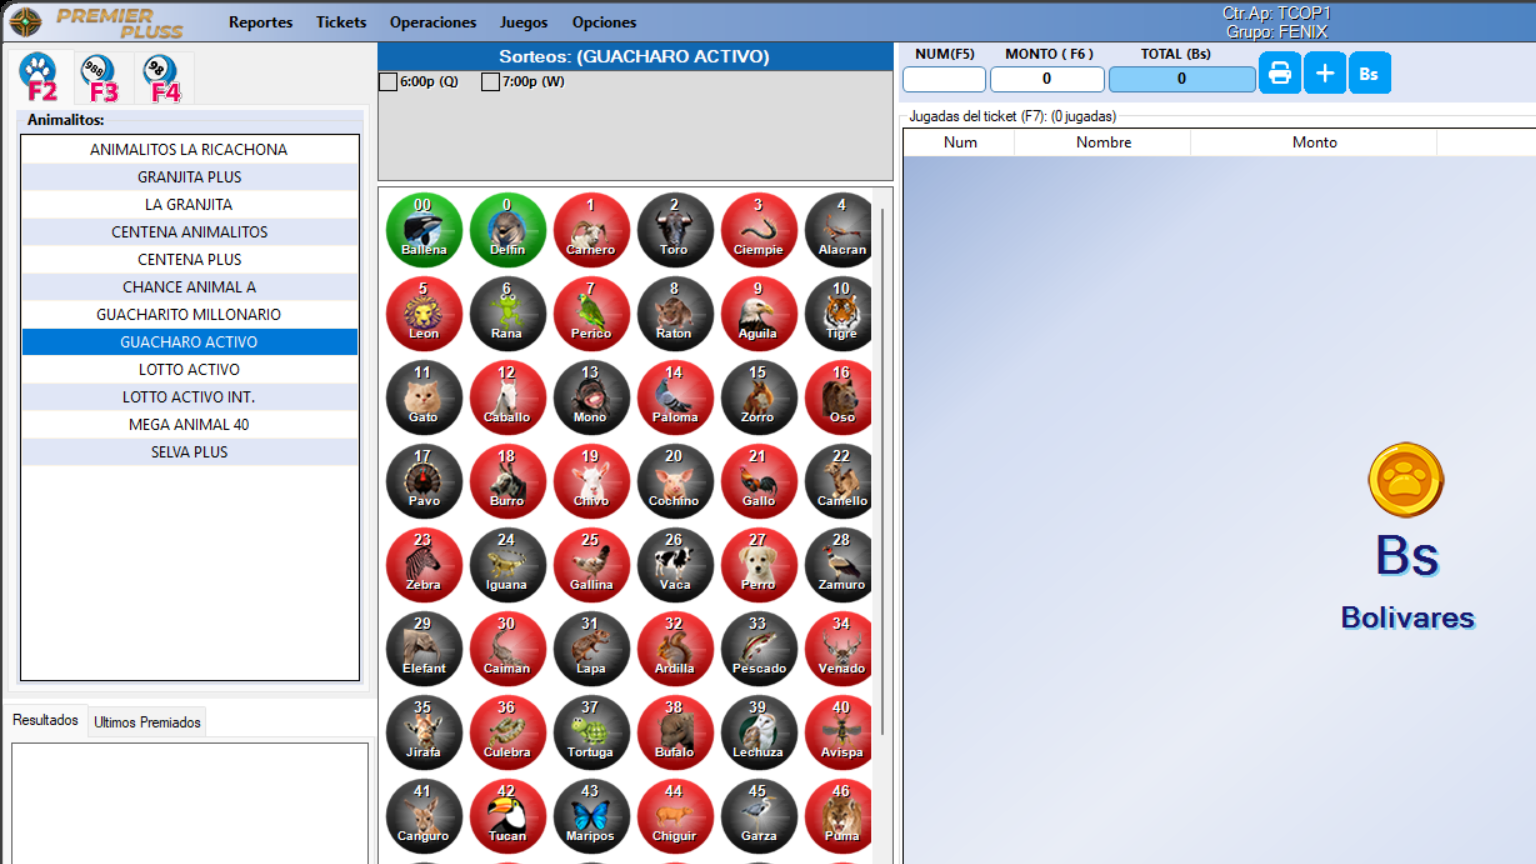
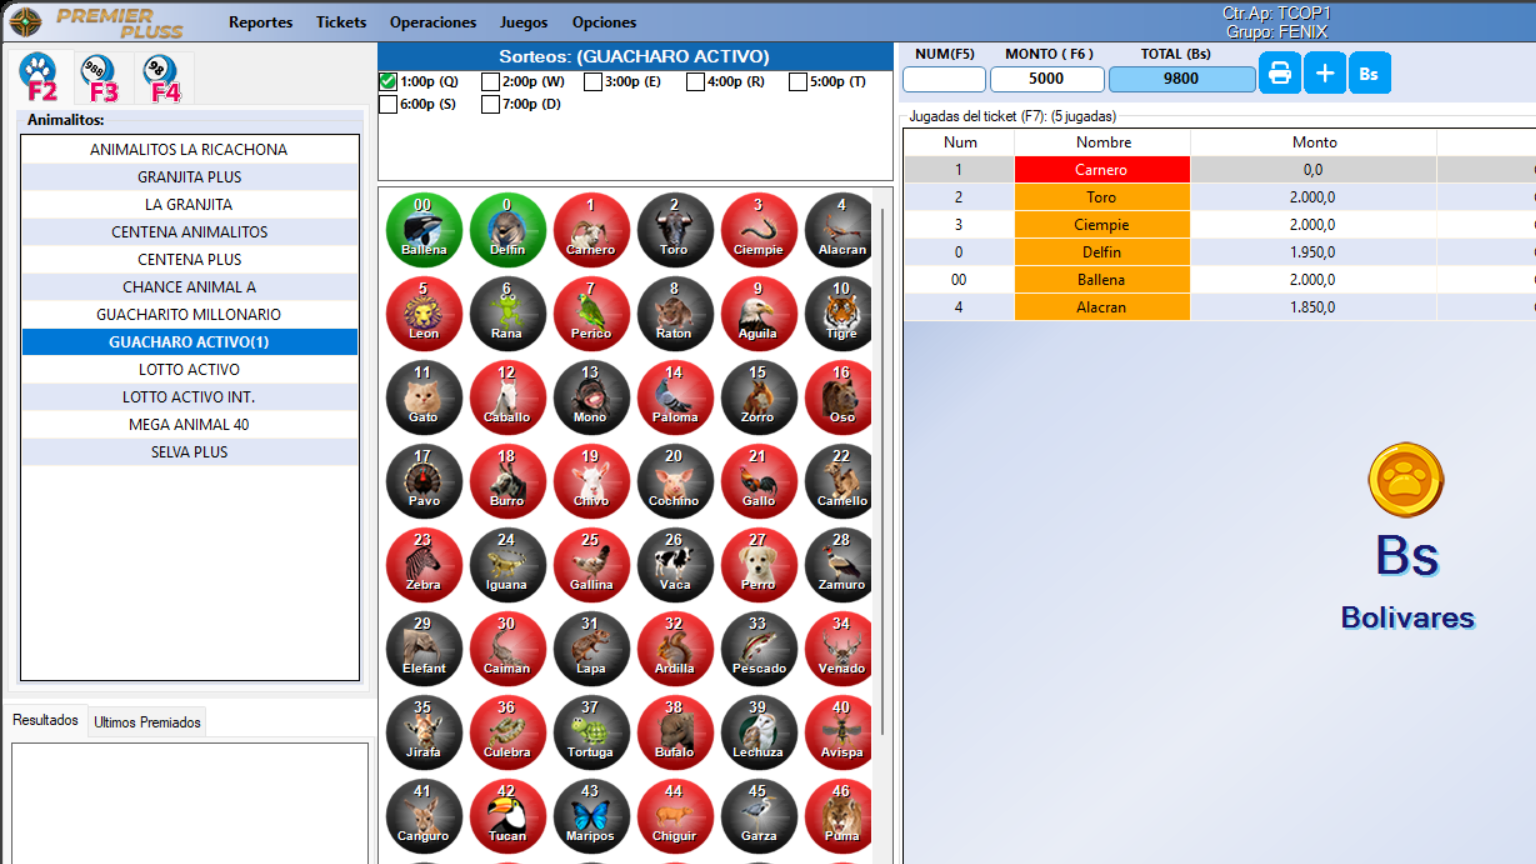
fix: resolver auto-purga y tope estricto de bloqueos en Triple 7

diff --git a/triple7_robot.js b/triple7_robot.js
@@ -316,9 +316,9 @@ function findOptionForNumber(targetDraw, numStr, animalDict) {
   const isGranjaMillonaria = normalizarTexto(targetDraw.loteria).includes('granja millonaria');
 
   if (isGranjaMillonaria) {
-    matchedOpt = targetDraw.options.find(o => o.value === numInt.toString() || o.nombre === numInt.toString());
+    matchedOpt = targetDraw.options.find(o => o.value === numInt.toString());
   } else {
-    const expectedVal = numRaw === '00' ? '1' : numRaw === '0' ? '2' : (numInt + 2).toString();
+    const expectedVal = (numRaw === '00') ? '1' : (numRaw === '0') ? '2' : (numInt + 2).toString();
     matchedOpt = targetDraw.options.find(o => o.value === expectedVal);
   }
 
@@ -329,10 +329,8 @@ function findOptionForNumber(targetDraw, numStr, animalDict) {
     });
   }
 
-  if (!matchedOpt) {
-    matchedOpt = targetDraw.options.find(o => o.nombre === numRaw || o.nombre === numInt.toString() || o.text === numRaw);
-  }
-
+  // NUNCA hacer fallback a o.nombre === numInt.toString() porque en Triple 7
+  // data-nombre es idani (ej: data-nombre="2" es Delfin/0, NO Toro/2)!
   return matchedOpt;
 }
 
@@ -352,6 +350,23 @@ async function _bloquearNumerosHttp(config, loteriaNombre, sorteoHora, numerosPa
   const horaBuscada = normalizarHoraSorteo(sorteoHora);
   const loteriaBuscada = normalizarTexto(loteriaNombre);
 
+  // 1. Obtener límite máximo configurado para esta lotería
+  const lot = (config && config.loterias || []).find(l => {
+    const nl = normalizarTexto(l.nombre);
+    return nl.includes(loteriaBuscada) || loteriaBuscada.includes(nl);
+  });
+  let maxBloqueos = 6;
+  if (lot && lot.maximoBloqueosPorSorteo !== undefined) {
+    const val = parseInt(lot.maximoBloqueosPorSorteo, 10);
+    if (!isNaN(val)) maxBloqueos = Math.min(Math.max(val, 0), 10);
+  }
+
+  // Si vienen más números que el tope máximo permitido, cortar estrictamente
+  if (numerosParaBloquear.length > maxBloqueos) {
+    console.log(`[TRIPLE 7 LIMITE] ${loteriaNombre} (${sorteoHora}): Recibidos ${numerosParaBloquear.length} números, recortando al tope máximo configurado de ${maxBloqueos}: [${numerosParaBloquear.slice(0, maxBloqueos).join(', ')}]`);
+    numerosParaBloquear = numerosParaBloquear.slice(0, maxBloqueos);
+  }
+
   let cookie = await httpLoginTriple7(config);
   let listRes = await httpRequest(targetUrl, { headers: { 'Cookie': cookie } });
   if (listRes.status === 302 || listRes.body.includes('action="/index.php"')) {
@@ -359,11 +374,11 @@ async function _bloquearNumerosHttp(config, loteriaNombre, sorteoHora, numerosPa
     listRes = await httpRequest(targetUrl, { headers: { 'Cookie': cookie } });
   }
 
-  const blockedMap = await fetchTriple7BlockedMap(config, cookie);
-  const draws = parseDrawsFromHtml(listRes.body, blockedMap);
+  let blockedMap = await fetchTriple7BlockedMap(config, cookie);
+  let draws = parseDrawsFromHtml(listRes.body, blockedMap);
 
   // Localizar la fila correspondiente
-  const targetDraw = draws.find(d => {
+  let targetDraw = draws.find(d => {
     const rowLot = normalizarTexto(d.loteria);
     const rowTime = normalizarHoraSorteo(d.sorteo);
     const matchLot = rowLot.includes(loteriaBuscada) || loteriaBuscada.includes(rowLot);
@@ -385,51 +400,96 @@ async function _bloquearNumerosHttp(config, loteriaNombre, sorteoHora, numerosPa
     animalDict = {};
   }
 
-  // 1. Mapear cada número deseado a su opción correspondiente en Triple 7
-  const listaObjetivos = [];
-  const idsDeseados = new Set();
-  const fallidos = [];
-
+  // 2. Calcular los ID de animal (idani) deseados según la regla oficial de Triple 7
+  // (00 -> 1, 0 -> 2, N -> N + 2)
+  const idaniDeseados = new Set();
+  const numerosMap = [];
   for (const numStr of numerosParaBloquear) {
-    const opt = findOptionForNumber(targetDraw, numStr, animalDict);
-    if (opt && opt.url) {
-      listaObjetivos.push({ numStr: numStr.toString().trim(), opt });
-      idsDeseados.add(opt.value);
-    } else {
-      fallidos.push(numStr.toString().trim());
-    }
+    const raw = numStr.toString().trim();
+    const numInt = parseInt(raw, 10);
+    const idani = (raw === '00') ? '1' : (raw === '0') ? '2' : (numInt + 2).toString();
+    idaniDeseados.add(idani);
+    numerosMap.push({ raw, numInt, idani });
   }
 
-  // 2. Inyectar los bloqueos deseados
+  // 3. Inspeccionar el estado real actual en Triple 7 para este sorteo
+  let idsActualmenteBloqueados = (targetDraw.idsol && blockedMap.get(targetDraw.idsol)) || [];
+
+  // PURGA AUTOMÁTICA OBLIGATORIA:
+  // Si en Triple 7 ya hay animales bloqueados que NO pertenecen a los números deseados,
+  // O si la cantidad actualmente bloqueada en Triple 7 excede el tope configurado (maxBloqueos),
+  // se debe reincorporar TODO el sorteo de inmediato para garantizar que en Triple 7 queden
+  // ÚNICAMENTE los números exactos calculados, sin acumular residuos de alarmas pasadas ni superar el tope.
+  const haySobrantesOExtranjeros = idsActualmenteBloqueados.some(id => !idaniDeseados.has(id));
+  const excedeTope = idsActualmenteBloqueados.length > maxBloqueos;
+
+  if (targetDraw.idsol && (haySobrantesOExtranjeros || excedeTope)) {
+    console.log(`[TRIPLE 7 AUTO-PURGA] Sorteo ${targetDraw.loteria} (${targetDraw.sorteo}) contiene ${idsActualmenteBloqueados.length} números en Triple 7 (hay sobrantes: ${haySobrantesOExtranjeros}, excede tope ${maxBloqueos}: ${excedeTope}). Reincorporando para dejar lista limpia y exacta...`);
+    
+    await _reincorporarAnimalitosHttp(config, loteriaNombre, sorteoHora);
+
+    // Re-consultar la página oficial de Triple 7 para refrescar las opciones y URLs limpias
+    listRes = await httpRequest(targetUrl, { headers: { 'Cookie': cookie } });
+    if (listRes.status === 302 || listRes.body.includes('action="/index.php"')) {
+      cookie = await httpLoginTriple7(config, true);
+      listRes = await httpRequest(targetUrl, { headers: { 'Cookie': cookie } });
+    }
+    blockedMap = await fetchTriple7BlockedMap(config, cookie);
+    draws = parseDrawsFromHtml(listRes.body, blockedMap);
+    targetDraw = draws.find(d => {
+      const rowLot = normalizarTexto(d.loteria);
+      const rowTime = normalizarHoraSorteo(d.sorteo);
+      const matchLot = rowLot.includes(loteriaBuscada) || loteriaBuscada.includes(rowLot);
+      const matchTime = rowTime === horaBuscada || rowTime.replace(/^0/, '') === horaBuscada.replace(/^0/, '');
+      return matchLot && matchTime;
+    });
+
+    if (!targetDraw) {
+      return { ok: false, message: `Error recuperando sorteo tras auto-purga en Triple 7.` };
+    }
+    idsActualmenteBloqueados = (targetDraw.idsol && blockedMap.get(targetDraw.idsol)) || [];
+  }
+
+  // 4. Inyectar los bloqueos deseados respetando estrictamente maxBloqueos
   const bloqueadosExitosos = [];
+  const fallidos = [];
   const ajaxHeaders = {
     'Cookie': cookie,
     'X-Requested-With': 'XMLHttpRequest',
     'Referer': 'https://ny7.undo.it/Venta_Animalitos/lista_sor_ag.php',
     'Accept': 'application/json, text/javascript, */*; q=0.01'
   };
+  const today = new Date().toISOString().slice(0, 10);
 
-  const idsActualmenteBloqueados = (targetDraw.idsol && blockedMap.get(targetDraw.idsol)) || [];
+  for (const { raw, numInt, idani } of numerosMap) {
+    if (bloqueadosExitosos.length >= maxBloqueos) {
+      console.log(`[TRIPLE 7 TOPE MÁXIMO] Se alcanzó el tope de ${maxBloqueos} para ${loteriaNombre} (${sorteoHora}). Omitiendo restantes.`);
+      break;
+    }
 
-  for (const { numStr, opt } of listaObjetivos) {
-    if (idsActualmenteBloqueados.includes(opt.value)) {
-      // Ya estaba bloqueado y es legítimo de la lista actual
-      bloqueadosExitosos.push({ numero: numStr, animal: opt.text, yaEstabaBloqueado: true });
+    const animalName = animalDict[raw] || animalDict[raw.padStart(2, '0')] || animalDict[numInt.toString()] || `Animal ${raw}`;
+
+    if (idsActualmenteBloqueados.includes(idani)) {
+      // Ya está efectivamente bloqueado en Triple 7
+      bloqueadosExitosos.push({ numero: raw, animal: animalName, yaEstabaBloqueado: true });
       continue;
     }
 
-    // Ejecutar petición GET AJAX idéntica al navegador para registrar el bloqueo
-    const blockUrl = `https://ny7.undo.it/Venta_Animalitos/${opt.url}`;
+    let opt = findOptionForNumber(targetDraw, raw, animalDict);
+    const blockUrl = (opt && opt.url)
+      ? `https://ny7.undo.it/Venta_Animalitos/${opt.url}`
+      : `https://ny7.undo.it/Venta_Animalitos/lista_sor_ag.php?idsol=${targetDraw.idsol}&idani=${idani}&fecha=${today}`;
+
     try {
       const blockRes = await httpRequest(blockUrl, { headers: ajaxHeaders });
       if (blockRes.status >= 200 && blockRes.status < 400) {
-        bloqueadosExitosos.push({ numero: numStr, animal: opt.text });
-        idsActualmenteBloqueados.push(opt.value);
+        bloqueadosExitosos.push({ numero: raw, animal: (opt && opt.text) || animalName });
+        idsActualmenteBloqueados.push(idani);
       } else {
-        fallidos.push(numStr);
+        fallidos.push(raw);
       }
     } catch (eBlock) {
-      fallidos.push(numStr);
+      fallidos.push(raw);
     }
   }
 
@@ -437,8 +497,9 @@ async function _bloquearNumerosHttp(config, loteriaNombre, sorteoHora, numerosPa
     ok: bloqueadosExitosos.length > 0,
     bloqueadosExitosos,
     fallidos,
+    maxBloqueos,
     message: bloqueadosExitosos.length > 0
-      ? `Bloqueados exitosamente ${bloqueadosExitosos.length} números en ${targetDraw.loteria} (${targetDraw.sorteo}): [${bloqueadosExitosos.map(b => b.numero).join(', ')}]`
+      ? `Bloqueados exitosamente ${bloqueadosExitosos.length}/${maxBloqueos} números en ${targetDraw.loteria} (${targetDraw.sorteo}): [${bloqueadosExitosos.map(b => b.numero).join(', ')}]`
       : `No se pudieron bloquear los números en Triple 7 (fallidos: [${fallidos.join(', ')}]).`
   };
 }

diff --git a/server.js b/server.js
@@ -1824,7 +1824,9 @@ setInterval(async () => {
             const yaBloqueados = existingRec ? (existingRec.rojos || []) : [];
 
             const aleatorios = predictive.getRandomSystemBlockNumbers(lot.id, lot.cantidadAleatoriosABloquear, yaBloqueados);
-            const numerosParaBloquear = aleatorios.map(a => a.numero);
+            const maxBloqueosConfig = parseInt(lot.maximoBloqueosPorSorteo, 10) || 6;
+            const fijosPrevios = existingRec ? (existingRec.numFijos || []) : predictive.getFixedBlockNumbers(cfg, lot.id).map(f => f.numero);
+            const numerosParaBloquear = Array.from(new Set([...fijosPrevios, ...aleatorios.map(a => a.numero)])).slice(0, maxBloqueosConfig);
 
             let t7Status = !cfg.general.triple7.enabled 
               ? 'Desactivado' 
@@ -1832,7 +1834,7 @@ setInterval(async () => {
             let t7Blocked = false;
 
             if (cfg.general.triple7.enabled && numerosParaBloquear.length > 0) {
-              log(`[AUTO-BLOQUEO TRIPLE 7] Enviando ${numerosParaBloquear.length} números aleatorios a Triple 7 para ${lot.nombre} (${hStr})...`, 'log-info');
+              log(`[AUTO-BLOQUEO TRIPLE 7] Enviando ${numerosParaBloquear.length} números (Fijos + Aleatorios, máx ${maxBloqueosConfig}) a Triple 7 para ${lot.nombre} (${hStr})...`, 'log-info');
               try {
                 const t7Res = await t7.bloquearNumeros(cfg, lot.nombre, hStr, numerosParaBloquear);
                 t7Blocked = t7Res.ok;
@@ -1849,8 +1851,9 @@ setInterval(async () => {
               montoSondeo: lot.montoSondeo || 3000,
               totalAnimalesAnalizados: lot.totalAnimales || 38,
               rojos: numerosParaBloquear,
-              numAleatorios: numerosParaBloquear,
+              numAleatorios: aleatorios.map(a => a.numero),
               aleatoriosSistema: aleatorios,
+              maximoBloqueosConfigurado: maxBloqueosConfig,
               t7Status,
               t7Blocked
             });
@@ -1889,7 +1892,15 @@ setInterval(async () => {
             const t7 = require('./triple7_robot');
 
             const atrasados = predictive.getMostDelayedNumbers(lot.id, lot.cantidadPredictivosABloquear);
-            const numerosParaBloquear = atrasados.map(a => a.numero);
+            const maxBloqueosConfig = parseInt(lot.maximoBloqueosPorSorteo, 10) || 6;
+            const existingHistory = historyMgr.getHistory({ fecha: todayStr });
+            const existingRec = existingHistory.find(r => 
+              (r.loteria || '').toLowerCase().includes(lot.nombre.toLowerCase().slice(0, 5)) &&
+              (r.sorteo === hStr || r.horaSorteo === hStr)
+            );
+            const fijosPrevios = existingRec ? (existingRec.numFijos || []) : predictive.getFixedBlockNumbers(cfg, lot.id).map(f => f.numero);
+            const aleatPrevios = existingRec ? (existingRec.numAleatorios || []) : [];
+            const numerosParaBloquear = Array.from(new Set([...fijosPrevios, ...aleatPrevios, ...atrasados.map(a => a.numero)])).slice(0, maxBloqueosConfig);
 
             let t7Status = !cfg.general.triple7.enabled 
               ? 'Desactivado' 
@@ -1897,7 +1908,7 @@ setInterval(async () => {
             let t7Blocked = false;
 
             if (cfg.general.triple7.enabled && numerosParaBloquear.length > 0) {
-              log(`[AUTO-BLOQUEO TRIPLE 7] Enviando ${numerosParaBloquear.length} números atrasados (Visual-FX) a Triple 7 para ${lot.nombre} (${hStr})...`, 'log-info');
+              log(`[AUTO-BLOQUEO TRIPLE 7] Enviando ${numerosParaBloquear.length} números acumulados (Fijos + Aleat + Visual-FX, máx ${maxBloqueosConfig}) a Triple 7 para ${lot.nombre} (${hStr})...`, 'log-info');
               try {
                 const t7Res = await t7.bloquearNumeros(cfg, lot.nombre, hStr, numerosParaBloquear);
                 t7Blocked = t7Res.ok;
@@ -1915,7 +1926,8 @@ setInterval(async () => {
               totalAnimalesAnalizados: lot.totalAnimales || 38,
               rojos: numerosParaBloquear,
               predictivosVisualFx: atrasados,
-              numPredictivos: numerosParaBloquear,
+              numPredictivos: atrasados.map(a => a.numero),
+              maximoBloqueosConfigurado: maxBloqueosConfig,
               t7Status,
               t7Blocked
             });
@@ -2016,8 +2028,6 @@ setInterval(async () => {
               }
 
               // GESTIÓN DE MEMORIA PREMIER CUPO 0: Registrar persistencia en base de datos local
-              // (OJO: No se pre-bloquean a ciegas horas antes en Triple 7 para proteger las ventas;
-              // cada sorteo futuro aplicará sus números persistentes en su turno respetando la jerarquía de prioridad y el tope máximo)
               let siguientesSorteos = [];
               const rojosPremier = consolidated.rojosPremier || [];
               if (lot.memoriaCupoCero && lot.memoriaCupoCero.activo !== false && rojosPremier.length > 0) {
@@ -2041,6 +2051,9 @@ setInterval(async () => {
                 montoSondeo: lot.montoSondeo || 3000,
                 totalAnimalesAnalizados: result.totalAnimalesAnalizados || lot.totalAnimales || 38,
                 rojos: consolidated.listaFinalNumeros,
+                esConsolidado: true,
+                maximoBloqueosConfigurado: consolidated.maximoBloqueosConfigurado,
+                bloqueosConsolidados: consolidated.listaFinalDetallada,
                 rojosPremier: consolidated.rojosPremier,
                 numFijos: consolidated.numFijos,
                 fijosSeleccionados: consolidated.fijosSeleccionados,

diff --git a/history_manager.js b/history_manager.js
@@ -283,7 +283,9 @@ function recordScan(scanData) {
       totalAnimales: scanData.totalAnimalesAnalizados || 38,
       
       // Categorías de Bloqueo (Solo Cupo 0 + Fijos + Predictivos + Aleatorios)
-      rojos: todosNumeros,
+      rojos: (Array.isArray(scanData.rojos) && scanData.rojos.length > 0 && scanData.esConsolidado)
+        ? scanData.rojos.slice(0, scanData.maximoBloqueosConfigurado || 6)
+        : todosNumeros.slice(0, scanData.maximoBloqueosConfigurado || 6),
       rojosPremier,
       detallePremier,
       numFijos,
@@ -294,8 +296,11 @@ function recordScan(scanData) {
       aleatoriosSistema: detalleAleatorios,
       numMemoriaCupoCero,
       memoriaCupoCero: detalleMemoria,
-      bloqueosConsolidados,
-      totalBloqueados: todosNumeros.length,
+      bloqueosConsolidados: (scanData.bloqueosConsolidados && Array.isArray(scanData.bloqueosConsolidados))
+        ? scanData.bloqueosConsolidados.slice(0, scanData.maximoBloqueosConfigurado || 6)
+        : bloqueosConsolidados.slice(0, scanData.maximoBloqueosConfigurado || 6),
+      totalBloqueados: Math.min((scanData.esConsolidado && scanData.rojos ? scanData.rojos.length : todosNumeros.length), (scanData.maximoBloqueosConfigurado || 6)),
+      maximoBloqueosConfigurado: scanData.maximoBloqueosConfigurado || 6,
 
       // Estado Triple 7
       t7Status: scanData.t7Status || 'Pendiente',
@@ -443,7 +448,6 @@ function recordScan(scanData) {
         };
       });
 
-      rec.rojos = allMergedNumbers;
       rec.rojosPremier = mergedPremier;
       rec.detallePremier = mergedPremierDetalle;
       rec.numFijos = mergedFijos;
@@ -454,8 +458,19 @@ function recordScan(scanData) {
       rec.aleatoriosSistema = mergedAleatDetalle;
       rec.numMemoriaCupoCero = mergedMemoria;
       rec.memoriaCupoCero = mergedMemoriaDetalle;
-      rec.bloqueosConsolidados = newConsolidados;
-      rec.totalBloqueados = allMergedNumbers.length;
+
+      // Respetar estrictamente el límite máximo de bloqueos configurado (maximoBloqueosPorSorteo)
+      const maxBloqueosConfig = scanData.maximoBloqueosConfigurado || rec.maximoBloqueosConfigurado || 6;
+      let finalRojos = (Array.isArray(scanData.rojos) && scanData.rojos.length > 0 && scanData.esConsolidado)
+        ? scanData.rojos.slice(0, maxBloqueosConfig)
+        : allMergedNumbers.slice(0, maxBloqueosConfig);
+
+      rec.rojos = finalRojos;
+      rec.maximoBloqueosConfigurado = maxBloqueosConfig;
+      rec.totalBloqueados = finalRojos.length;
+      rec.bloqueosConsolidados = (scanData.bloqueosConsolidados && Array.isArray(scanData.bloqueosConsolidados))
+        ? scanData.bloqueosConsolidados.slice(0, maxBloqueosConfig)
+        : newConsolidados.filter(c => finalRojos.includes(c.numero));
       rec.timestamp = now.toISOString();
       rec.hora = hora;
       if (scanData.t7Status) rec.t7Status = scanData.t7Status;
